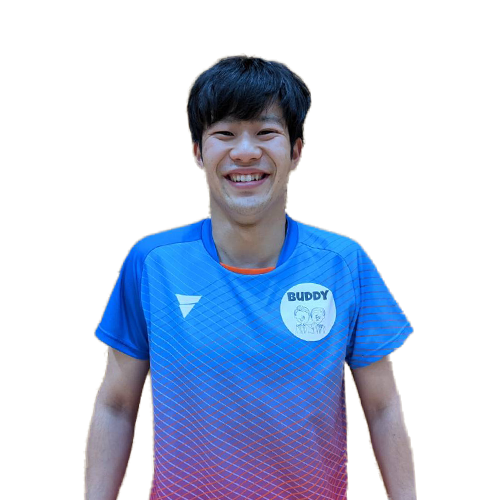
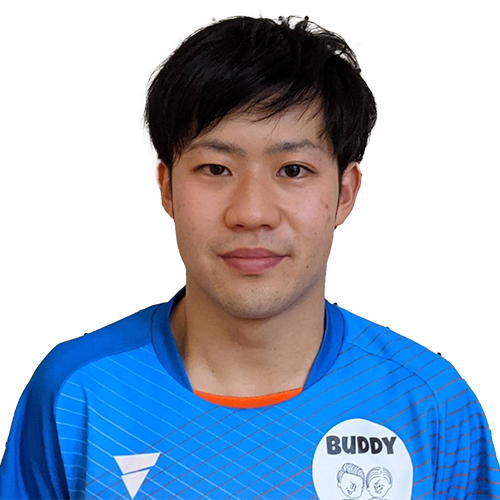
スライダーメンバー更新

diff --git a/index.html b/index.html
@@ -196,6 +196,42 @@
                     <p>90</p>
                   </div>
                 </li>
+                <li class="content" data-trigger="popup10">
+                  <div class="content-img">
+                    <img src="./assets/images/pages/index/11.png" alt="" />
+                  </div>
+                  <div class="content-player">
+                    <h3>
+                      今田 裕樹
+                      <!-- <span>dami-dami-dami</span> -->
+                    </h3>
+                    <p>30</p>
+                  </div>
+                </li>
+                <li class="content" data-trigger="popup11">
+                  <div class="content-img">
+                    <img src="./assets/images/pages/index/12.png" alt="" />
+                  </div>
+                  <div class="content-player">
+                    <h3>
+                      谷川 敦哉
+                      <!-- <span>dami-dami-dami</span> -->
+                    </h3>
+                    <p>28</p>
+                  </div>
+                </li>
+                <li class="content" data-trigger="popup12">
+                  <div class="content-img">
+                    <img src="./assets/images/pages/index/13.png" alt="" />
+                  </div>
+                  <div class="content-player">
+                    <h3>
+                      中道 飛之
+                      <!-- <span>dami-dami-dami</span> -->
+                    </h3>
+                    <p>48</p>
+                  </div>
+                </li>
               </ul>
             </div>
           </section>
@@ -256,7 +292,6 @@
             </div>
           </section>
 
-          <section class="aaa"></section>
 
           <section class="sec_popup" id="sec_popup">
             <div id="popup__background" class="popup__background"></div>
@@ -515,17 +550,20 @@
                   <i class="fas fa-times"></i>
                 </div> -->
                 <div class="content-img">
-                  <img src="./assets/images/pages/index/08.png" alt="" />
+                  <img src="./assets/images/pages/index/11.png" alt="" />
                 </div>
                 <div class="content-player">
                   <h3>
-                    小林 完
+                    今田 裕樹
                     <!-- <span>dami-dami-dami</span> -->
                   </h3>
-                  <p>08</p>
+                  <p>30</p>
                   <ul class="detail-text">
-                    <li><span class="detail-text-title">出身</span>大阪府松原市出身</li>
-                    <li style="margin-top: 10px;"><span class="detail-text-title">使用用具</span>ラケットZX-GEAR ＩＮ<br>F面ディグニクス09c<br>B面V>15 Extra</li>
+                    <li><span class="detail-text-title">出身</span>京都府京都市出身
+                    </li>
+                    <li style="margin-top: 10px;"><span class="detail-text-title">使用用具</span>ラケットインナーフォースALC  
+                      <br>F面テナジー05<br>B面ファスタークG1
+                    </li>
                   </ul>
                   <h3 class="detail-subtitle">PROFILE</h3>
                 </div>
@@ -538,40 +576,46 @@
                   <i class="fas fa-times"></i>
                 </div> -->
                 <div class="content-img">
-                  <img src="./assets/images/pages/index/08.png" alt="" />
+                  <img src="./assets/images/pages/index/12.png" alt="" />
                 </div>
                 <div class="content-player">
                   <h3>
-                    小林 完
+                    谷川 敦哉
                     <!-- <span>dami-dami-dami</span> -->
                   </h3>
-                  <p>08</p>
+                  <p>28</p>
                   <ul class="detail-text">
-                    <li><span class="detail-text-title">出身</span>大阪府松原市出身</li>
-                    <li style="margin-top: 10px;"><span class="detail-text-title">使用用具</span>ラケットZX-GEAR ＩＮ<br>F面ディグニクス09c<br>B面V>15 Extra</li>
+                    <li><span class="detail-text-title">出身</span>広島県福山市出身
+                    </li>
+                    <li style="margin-top: 10px;"><span class="detail-text-title">使用用具</span>ラケットクリッパーウッド
+                      <br>F面テナジー05
+                      <br>B面テナジー05
+                    </li>
                   </ul>
                   <h3 class="detail-subtitle">PROFILE</h3>
                 </div>
               </div>
               <!-- <div id="popup__background" class="popup__background"></div> -->
             </div>
-            <div id="popup8" class="popup">
+            <div id="popup12" class="popup">
               <div class="popup__inner">
                 <!-- <div id="popup__close" class="popup__close">
                   <i class="fas fa-times"></i>
                 </div> -->
                 <div class="content-img">
-                  <img src="./assets/images/pages/index/08.png" alt="" />
+                  <img src="./assets/images/pages/index/13.png" alt="" />
                 </div>
                 <div class="content-player">
                   <h3>
-                    小林 完
+                    中道 飛之
                     <!-- <span>dami-dami-dami</span> -->
                   </h3>
-                  <p>08</p>
+                  <p>48</p>
                   <ul class="detail-text">
-                    <li><span class="detail-text-title">出身</span>大阪府松原市出身</li>
-                    <li style="margin-top: 10px;"><span class="detail-text-title">使用用具</span>ラケットZX-GEAR ＩＮ<br>F面ディグニクス09c<br>B面V>15 Extra</li>
+                    <li><span class="detail-text-title">出身</span>兵庫県出身
+                    </li>
+                    <li style="margin-top: 10px;"><span class="detail-text-title">使用用具</span>レボルディアCNF<br>F面ディグ09C
+                      <br>B面テナジー19</li>
                   </ul>
                   <h3 class="detail-subtitle">PROFILE</h3>
                 </div>
